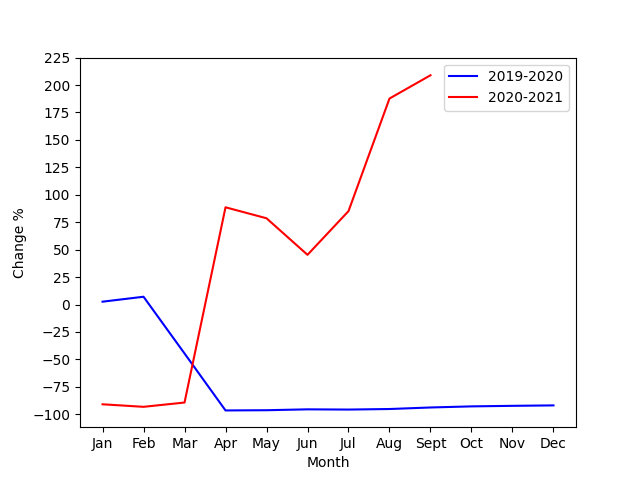
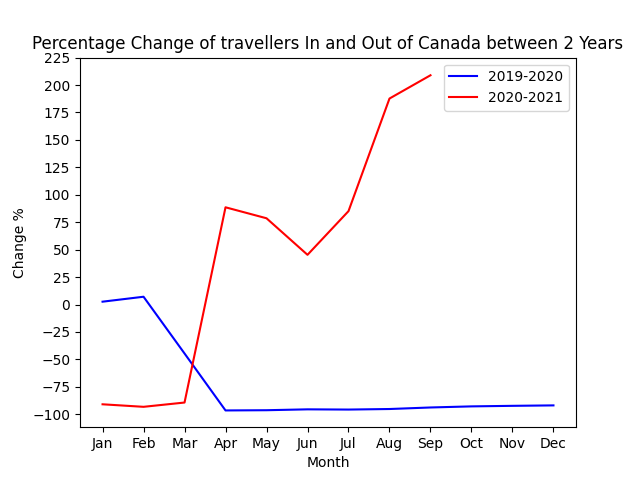
added labels to graphs

Changed region(s): [[0.0312, 0.0625, 0.9688, 0.125], [0.6562, 0.9062, 0.7188, 0.9375]]

diff --git a/project.py b/project.py
@@ -76,7 +76,7 @@ def main():
     ax2.plot(month_name, total_change2019_2020, '-b', label='2019-2020')
     ax2.plot(month_name[:len(total_change2020_2021)], total_change2020_2021, '-r', label='2020-2021')
     plt.yticks(np.arange(-100, 250, 25))
-    # need title
+    ax2.title.set_text("Percentage Change of travellers In and Out of Canada between 2 Years")
     ax2.set_ylabel("Change %")
     ax2.set_xlabel("Month")
     plt.legend()
@@ -202,6 +202,9 @@ def main():
     ax3.plot(predictstr, predict_OTHER, '-g', label='Other Country Residents')
     plt.ticklabel_format(style='plain', axis='y')
     plt.xticks(rotation=75)
+    ax3.set_ylabel("# of Travellers")
+    ax3.set_xlabel("Year and Month")
+    ax3.title.set_text("Number of Travelers in and out of Canada By Month (Including Pre-Covid 19 Information)")
     plt.yticks(np.arange(0, 6200000, 200000))
     plt.legend()
     plt.savefig('predict.png')
@@ -231,6 +234,9 @@ def main():
     ax4.plot(predictstr_WC, predict_US_WC, '-b', label='United States Residents')
     ax4.plot(predictstr_WC, predict_OTHER_WC, '-g', label='Other Country Residents')
     plt.xticks(rotation=75)
+    ax4.set_ylabel("# of Travellers")
+    ax4.set_xlabel("Year and Month")
+    ax4.title.set_text("Number of Travelers in and out of Canada By Month (Without Pre-Covid 19 Information)")
     plt.yticks(np.arange(0, 900000, 50000))
     plt.legend()
     plt.savefig('predict_WC.png')
